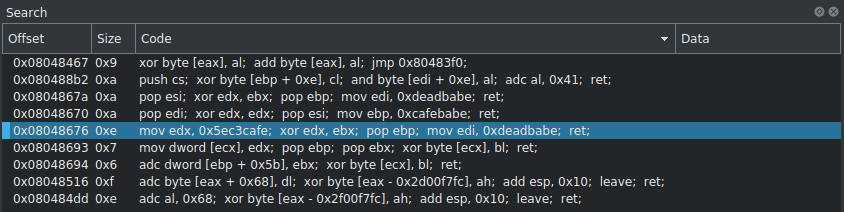
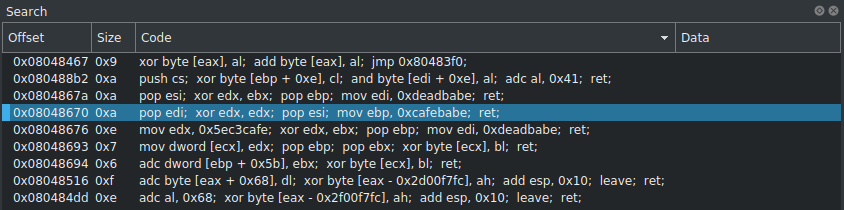
test

diff --git a/_posts/2020-02-14-Fluff-x86.md b/_posts/2020-02-14-Fluff-x86.md
@@ -81,6 +81,43 @@ Searching for xor instructions returns very few options.
 
 <a href="/assets/img/2020-02-14-Fluff-x86/search-xor.png"><img src="/assets/img/2020-02-14-Fluff-x86/search-xor.png"></a>
 
+There is only one gadget that performs a xor on one register as both arguments.  
+```x86asm
+0x08048670      pop edi
+0x08048671      xor edx, edx
+0x08048673      pop esi
+0x08048674      mov ebp, 0xcafebabe
+0x08048679      ret
+```
+This is important because the EDX register will be zeroed out after the gadget at 0x08048671, which would allow another value to be copied into EDX.
+
+<a href="/assets/img/2020-02-14-Fluff-x86/xor-edx-ebx.png"><img src="/assets/img/2020-02-14-Fluff-x86/xor-edx-ebx.png"></a>
+
+The gadget at 0x0804867b performs the xor operation on edx and ebx.
+If a value is loaded into EBX and xor'd with EDX (if EDX is set to zero), EDX will contain the original value set in EBX before the operation.  
+```x86asm
+0x0804867a      pop esi
+0x0804867b      xor edx, ebx
+0x0804867d      pop ebp
+0x0804867e      mov edi, 0xdeadbabe
+0x08048683      ret
+```
+Searching for pop ebx returns many results.
+
+<a href="/assets/img/2020-02-14-Fluff-x86/pop-ebx.png"><img src="/assets/img/2020-02-14-Fluff-x86/pop-ebx.png"></a>
+```x86asm
+0x08048713      add esp, 8
+0x08048716      pop ebx
+0x08048717      ret
+```
+The gadget at 0x08048716 will pop the next 4 bytes on the stack into EBX.
+
+Combined, the mentioned gadgets will load a value into ECX with the following sequence:  
+"pop ebx; ret;"  
+"xor edx, edx; pop esi; mov ebp, 0xcafebabe; ret;"  
+"xor edx, ebx; pop ebp; mov edi, 0xdeadbabe; ret;"  
+"xchg edx, ecx; pop ebp; mov edx, 0xdefaced0; ret;"  
+
 ##### 2. Load bytes, that we wish to write, into the EDX register
 ##### 3. Place padding values on the stack for the "pop ebp" and "pop ebx" instructions before the "ret"
 
